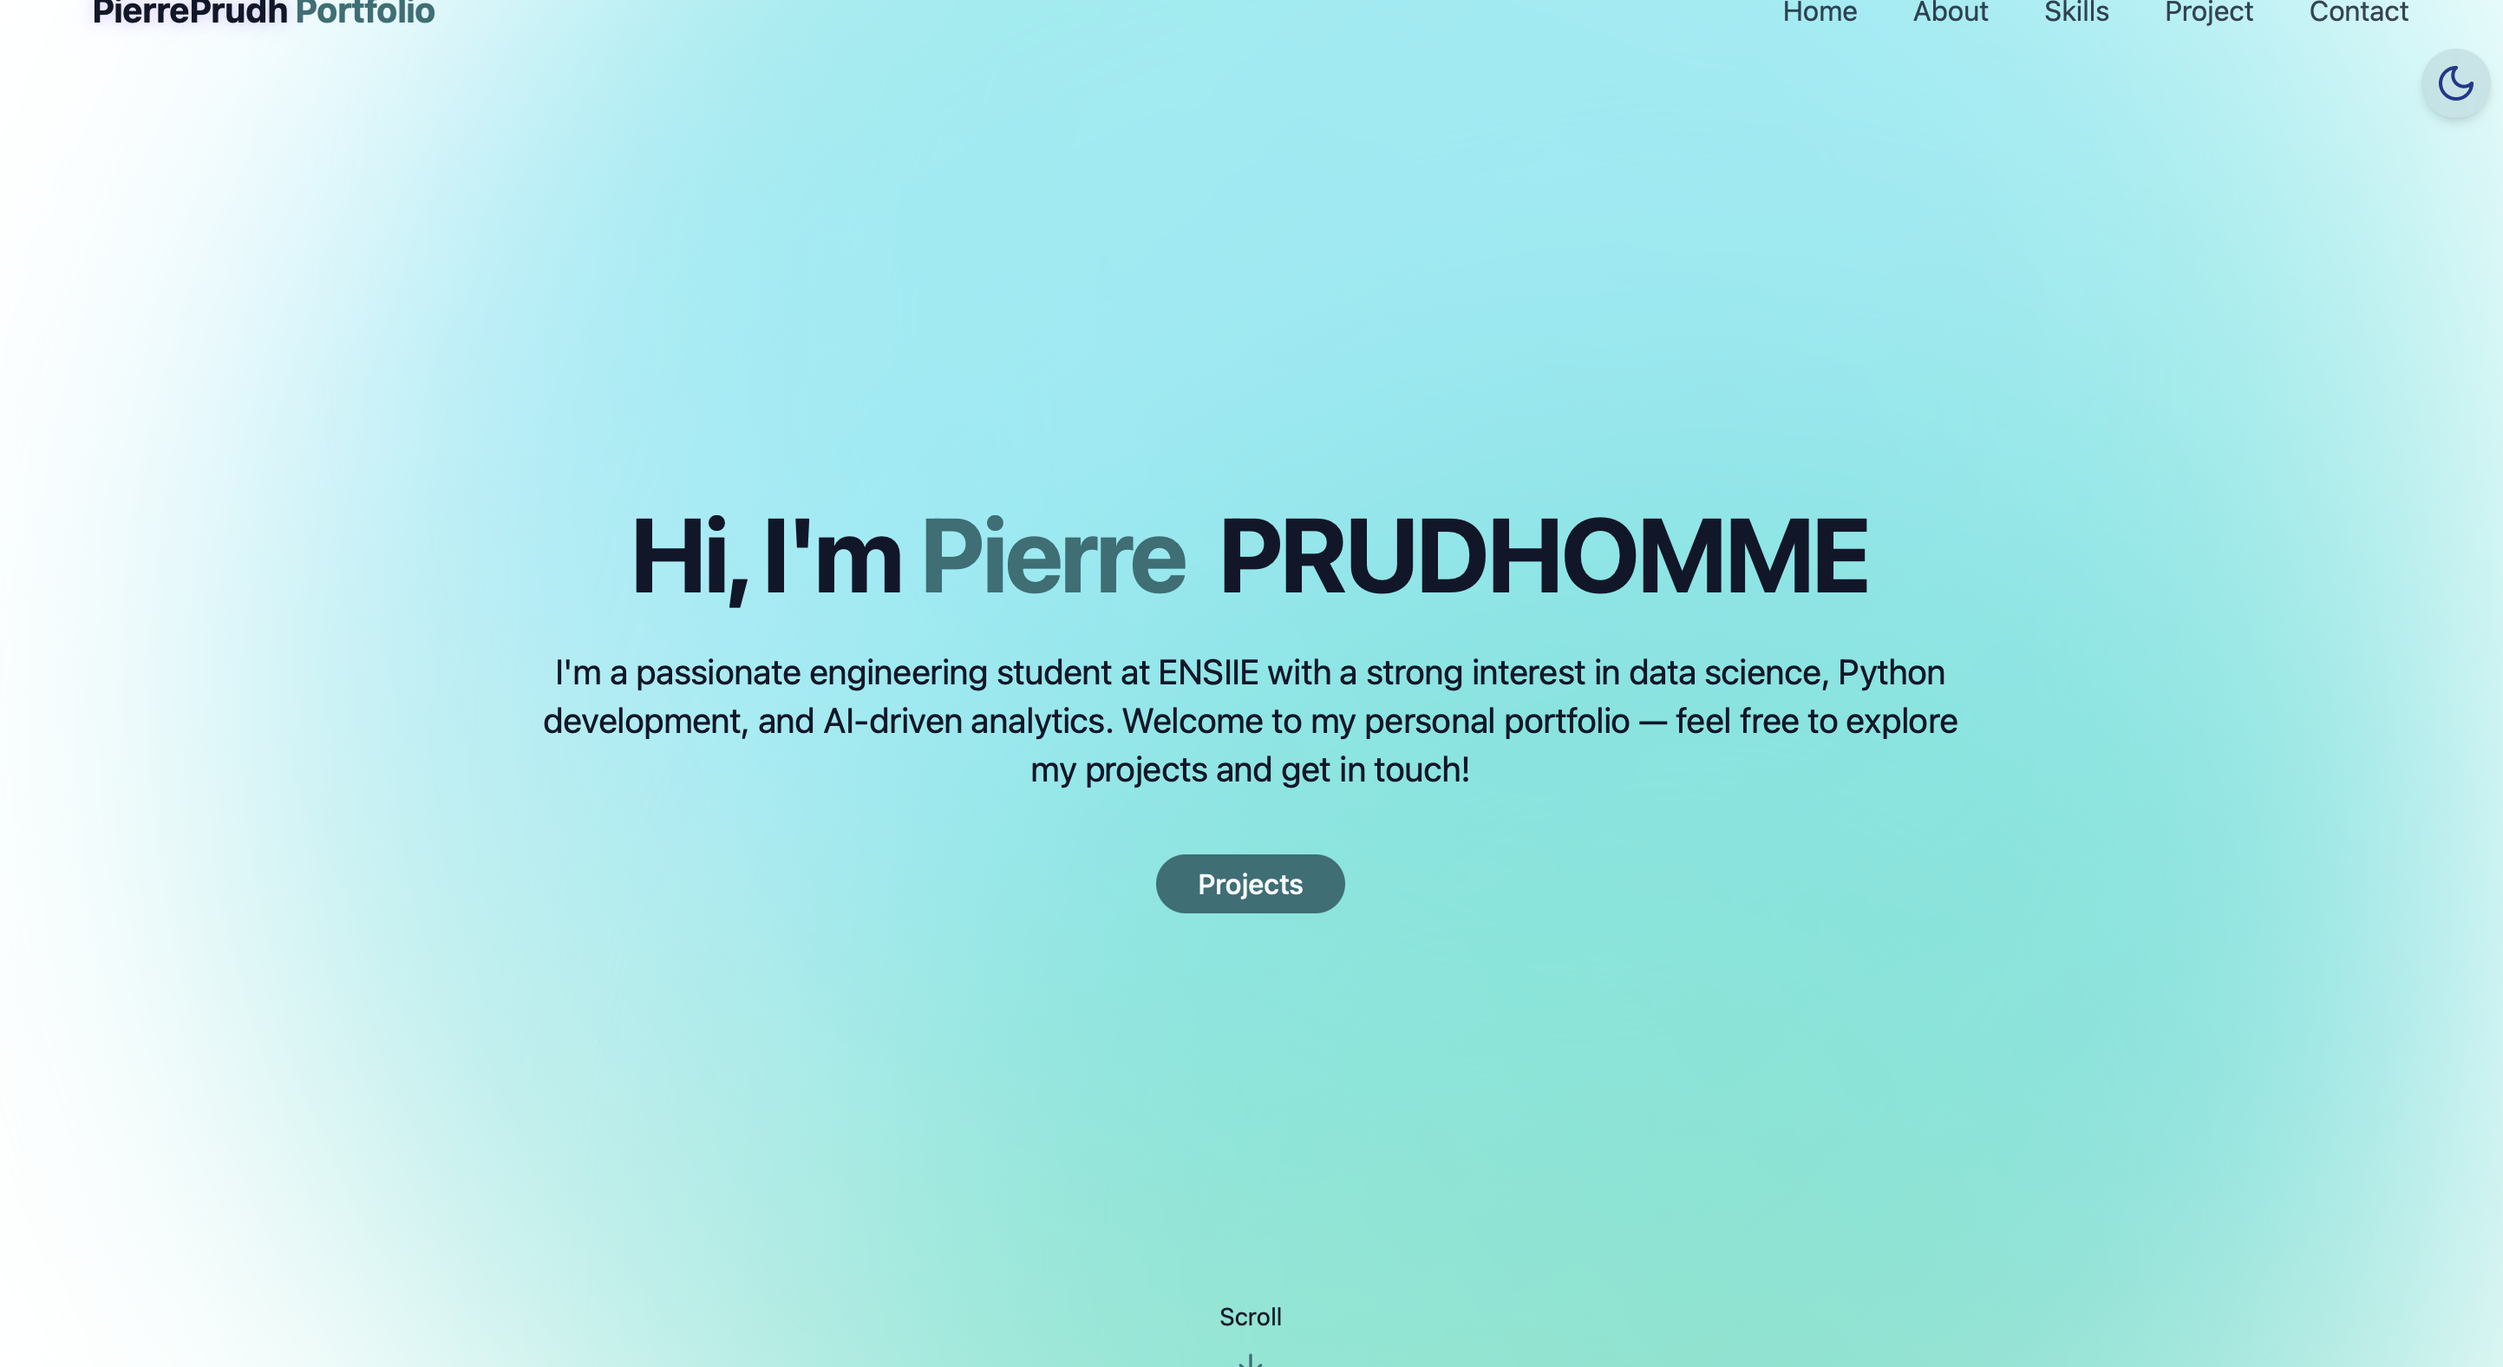
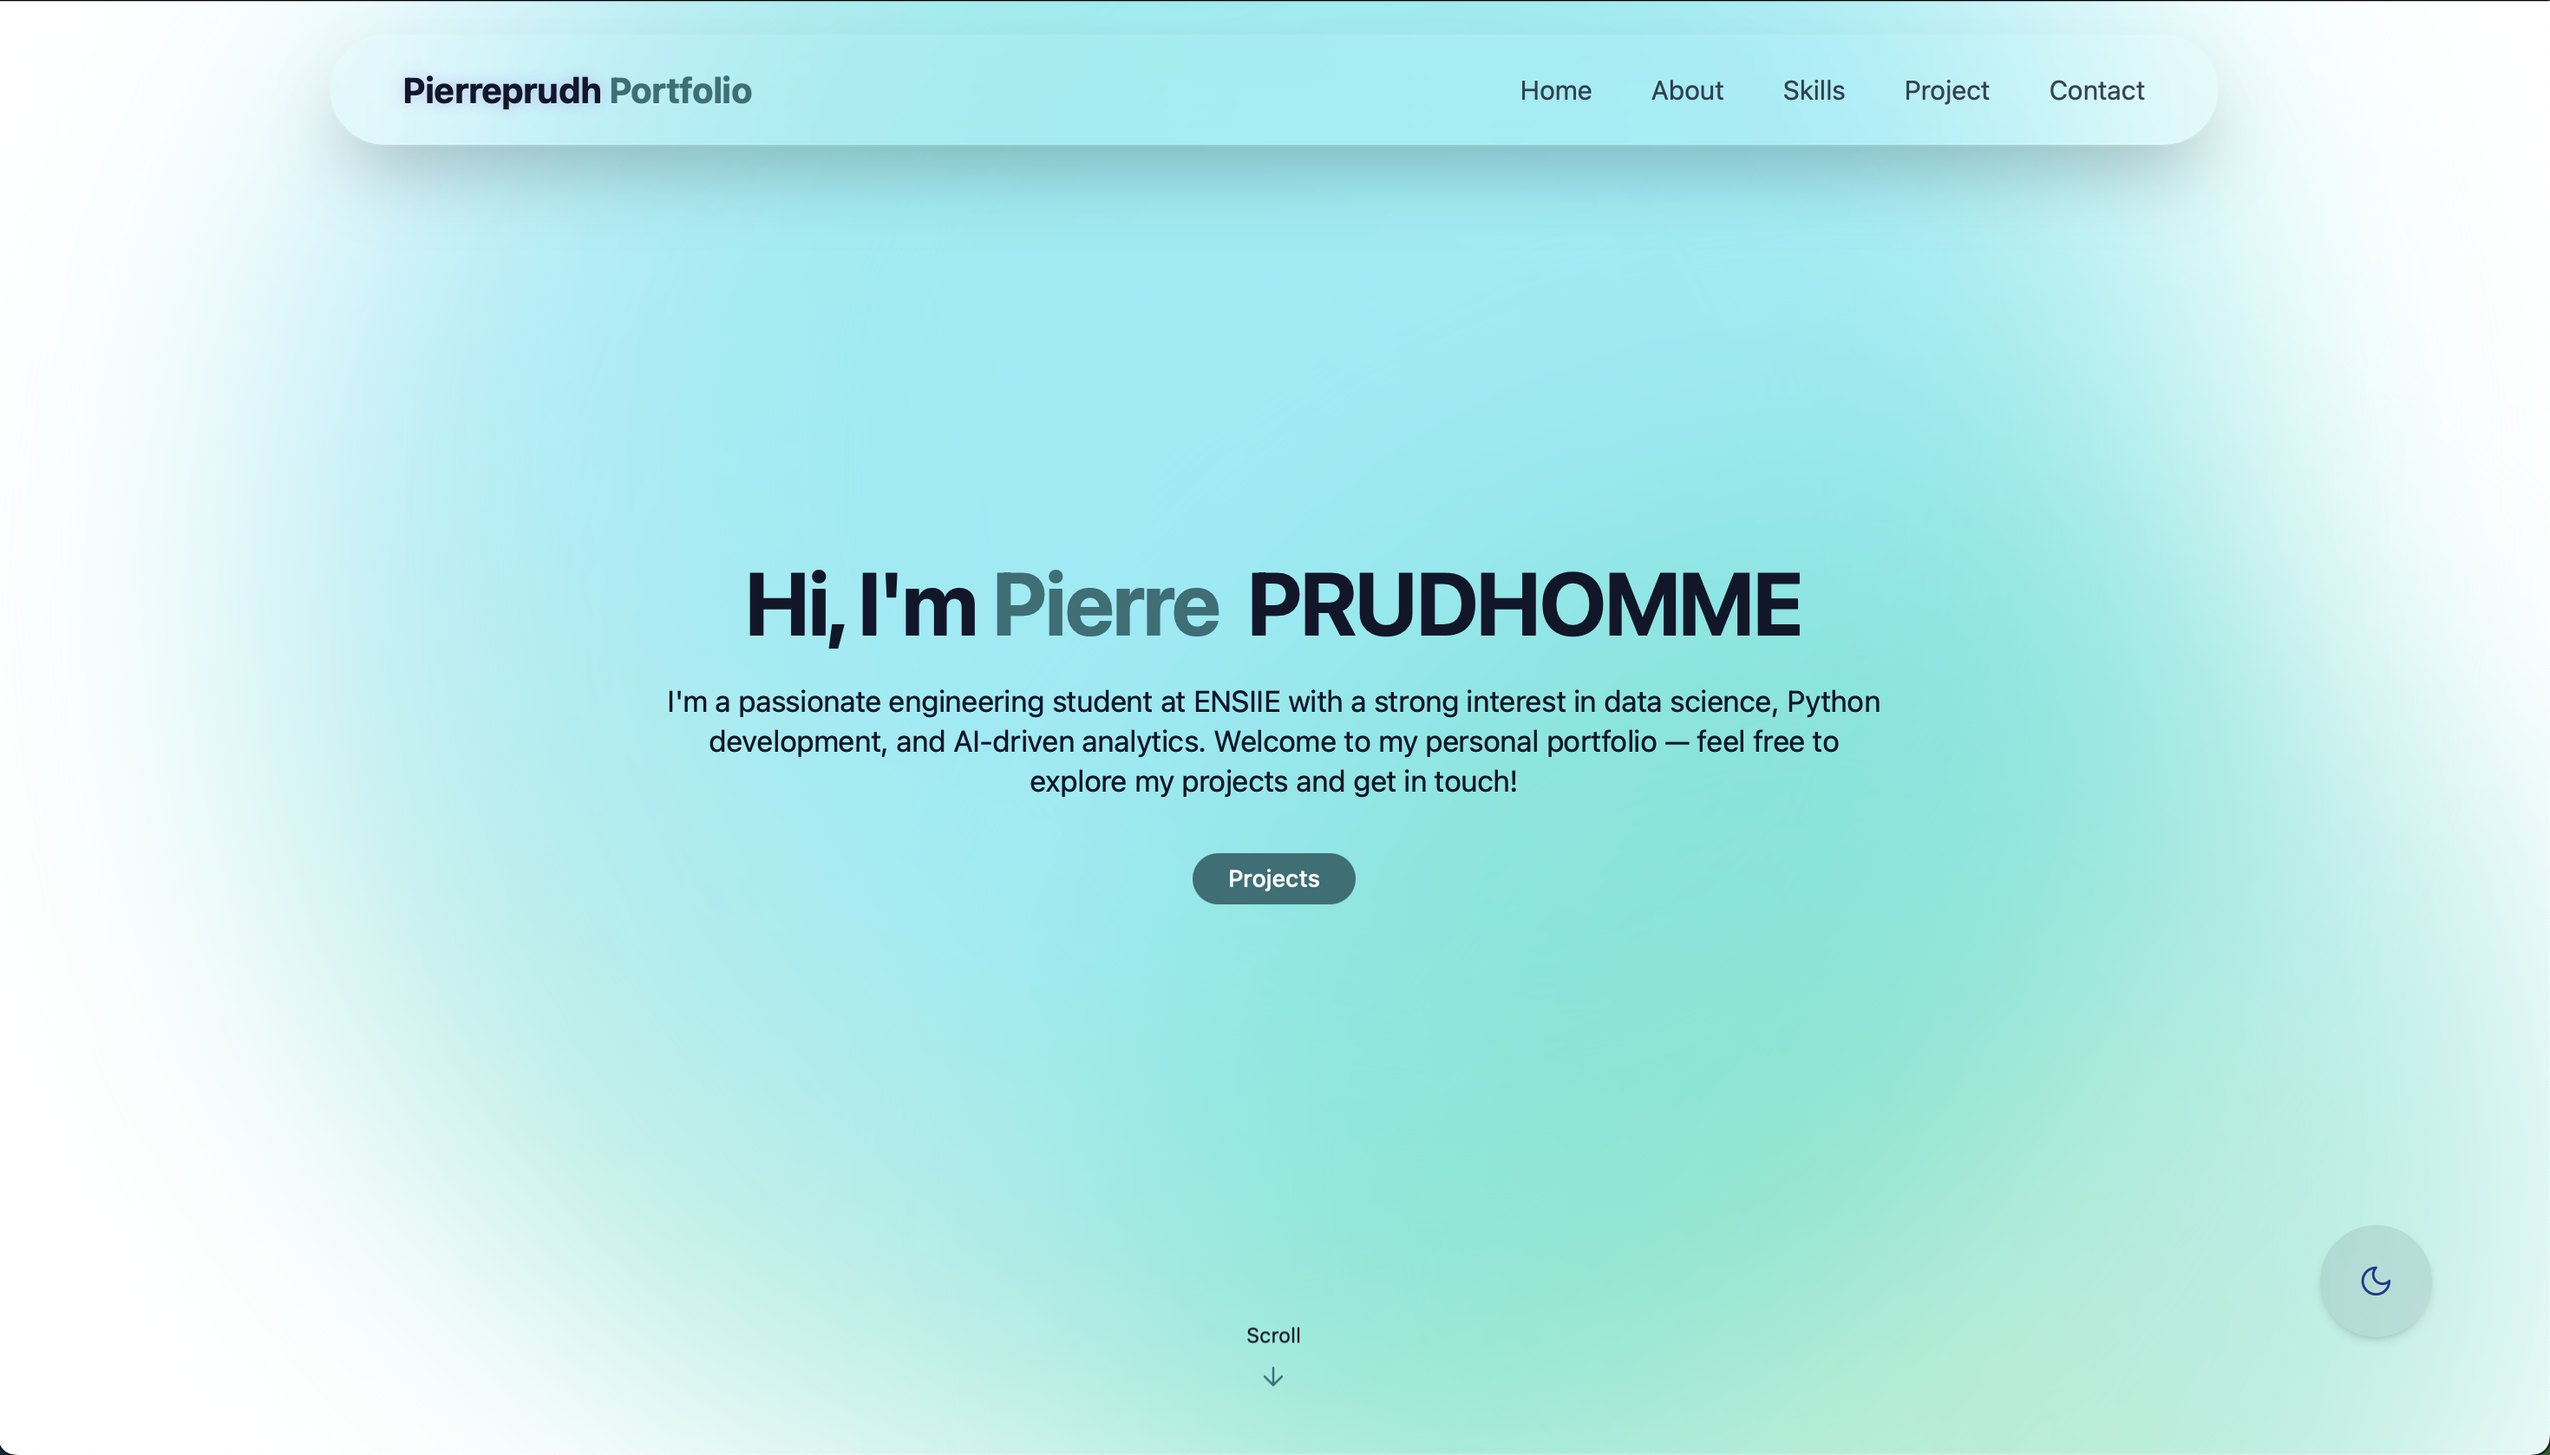
Animation theme switch + readme update

Changed region(s): [[0.0312, 0.0, 1.0, 1.0], [0.2183, 0.4664, 0.7796, 0.684], [0.2495, 0.3731, 0.7484, 0.4353]]

diff --git a/src/components/ThemeToggle.jsx b/src/components/ThemeToggle.jsx
@@ -32,17 +32,32 @@ export const ThemeToggle = () => {
 
   return (
     <button onClick={toggleTheme} className={cn(
-      "fixed z-50 p-2 rounded-full transition-colors duration-300",
-      "top-14 right-5 max-sm:top-auto max-sm:bottom-6 max-sm:right-6",
+      "fixed bottom-4 right-4 z-50 p-2 rounded-full transition-all duration-300 transform hover:scale-110 hover:rotate-6",
+      "md:bottom-20 md:right-20 md:p-5",
       "bg-white/10 dark:bg-gray-800/10 backdrop-blur-md shadow-md",
       "focus:outline-hidden"
     )}>
 
-      {isDarkMode ? ( <Sun className="h-6 w-6 text-yellow-300" /> )
-      :
-      (<Moon className="h-6 w-6 text-blue-900" />)
-
-    }
+      <div className="relative w-8 h-8 md:w-9 md:h-9 grid place-items-center">
+        <Moon
+          className={cn(
+            "absolute transition-all duration-500 transform flex items-center justify-center",
+            !isDarkMode
+              ? "opacity-100 scale-100 rotate-0"
+              : "opacity-0 scale-75 rotate-90",
+            "text-blue-900"
+          )}
+        />
+        <Sun
+          className={cn(
+            "absolute transition-all duration-500 transform flex items-center justify-center",
+            isDarkMode
+              ? "opacity-100 scale-100 rotate-0"
+              : "opacity-0 scale-75 rotate-90",
+            "text-yellow-300"
+          )}
+        />
+      </div>
     </button>
   );
 };

diff --git a/src/index.css b/src/index.css
@@ -183,3 +183,18 @@
     transform: translate(-40px, -30px) rotate(10deg);
   }
 }
+
+@keyframes fade-spin-in {
+  from {
+    opacity: 0;
+    transform: rotate(-90deg) scale(0.75);
+  }
+  to {
+    opacity: 1;
+    transform: rotate(0deg) scale(1);
+  }
+}
+
+.animate-fade-spin-in {
+  animation: fade-spin-in 0.4s ease-out;
+}

diff --git a/README.md b/README.md
@@ -16,7 +16,7 @@ Welcome to my personal portfolio, built using React and Tailwind CSS. This proje
 
 ## 🌐 Live Demo
 
-Experience the portfolio live, hosted on **Vercel**:  
+Experience the portfolio live, hosted on **Vercel**:
 🔗 [portfolio-pierreprudh.vercel.app](https://portfolio-pierreprudh.vercel.app)
 
 ---
@@ -26,8 +26,8 @@ Experience the portfolio live, hosted on **Vercel**:
 | Light Mode | Dark Mode |
 |------------|-----------|
 | ![Light Mode](./src/assets/light-mode.png) | ![Dark Mode](./src/assets/dark-mode.png) |
+| ![Light Mode](./src/assets/mobile-light.png) | ![Dark Mode](./src/assets/mobile-dark.png) |
 
-Watch the [base tutorial](https://www.youtube.com/watch?v=ifOJ0R5UQOc&t=4615s) on YouTube.
 
 
 ---
@@ -98,3 +98,7 @@ npm run preview
 ```
 
 ---
+
+## 📚 Base tutotial
+
+Watch the [base tutorial](https://www.youtube.com/watch?v=ifOJ0R5UQOc&t=4615s) on YouTube.
